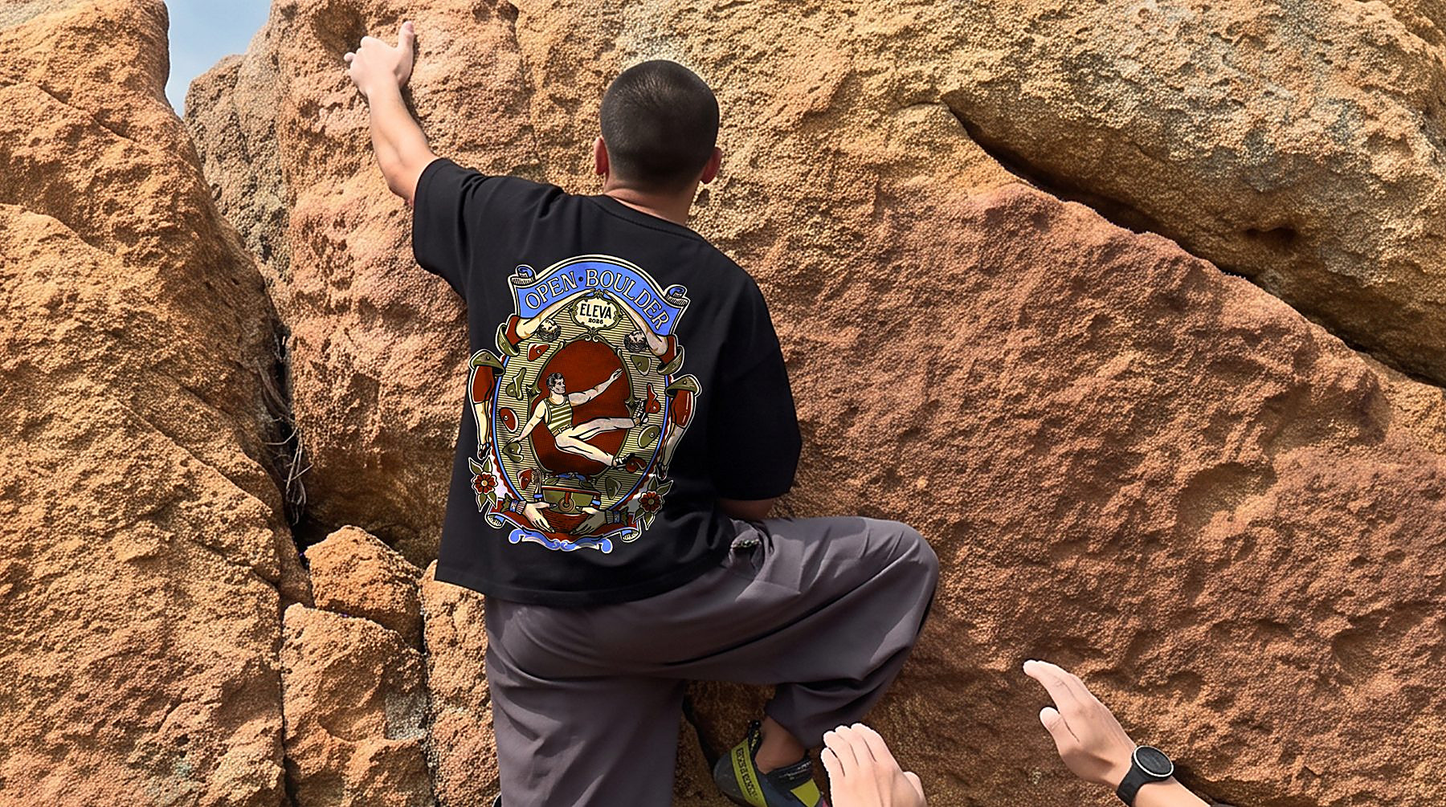
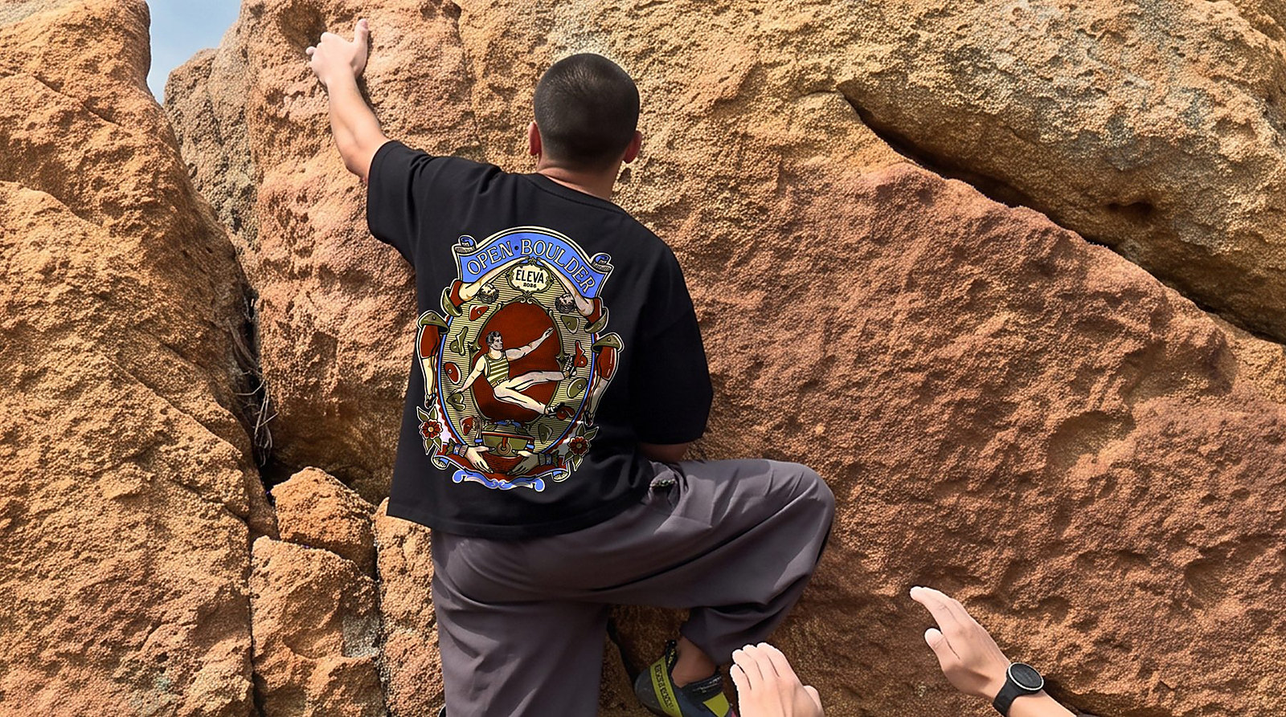
Retira a galeria Climb das Antigas e otimiza as imagens

diff --git a/index.html b/index.html
@@ -200,12 +200,6 @@
     .done code{font:700 15px var(--mono);background:var(--paper2);border:1.5px dashed var(--ink);border-radius:8px;padding:4px 8px}
     .lot .promo{align-self:flex-start;margin-top:8px;font:700 10px var(--mono);letter-spacing:.1em;text-transform:uppercase;color:var(--gold)}
 
-    /* galeria */
-    .gallery{columns:3;column-gap:14px}
-    .gallery figure{margin:0 0 14px;break-inside:avoid;border-radius:var(--r);overflow:hidden;border:2px solid var(--ink);cursor:zoom-in;position:relative}
-    .gallery img{width:100%;transition:transform .5s}
-    .gallery figure:hover img{transform:scale(1.04)}
-    .gallery figcaption{position:absolute;left:10px;bottom:10px;background:var(--cream);border:1.5px solid var(--ink);border-radius:999px;padding:3px 10px;font:700 10px var(--mono);letter-spacing:.08em;text-transform:uppercase}
 
     /* patrocinadores */
     .sponsors{display:grid;grid-template-columns:repeat(5,1fr);gap:12px}
@@ -328,7 +322,6 @@
       .about,.schedule,.local,.faq,.ticket-info,.shirt{grid-template-columns:1fr;gap:34px}
       .schedule-art{position:static}
       .schedule-art img{max-width:200px}
-      .gallery{columns:2}
       .footer-grid{grid-template-columns:1fr}
     }
     @media (max-width:600px){
@@ -353,7 +346,6 @@
       .fgrid,.kit-fields{grid-template-columns:1fr}
       .choices{grid-template-columns:1fr}
       .choices.two{grid-template-columns:1fr 1fr}
-      .gallery{columns:1}
       .mobile-cta{display:flex;position:fixed;left:0;right:0;bottom:0;z-index:45;gap:10px;padding:10px 16px calc(10px + env(safe-area-inset-bottom));background:rgba(15,15,15,.96);border-top:1px solid var(--line-d);transform:translateY(110%);transition:transform .3s}
       .mobile-cta.show{transform:none}
       .mobile-cta .btn{flex:1;padding:12px;box-shadow:none;border-color:var(--gold)}
@@ -520,7 +512,7 @@
         <p>Arte exclusiva do Estúdio Avoada para os 8 anos de Eleva. Só na cor preta, em edição limitada.</p>
       </div>
       <div class="shirt reveal">
-        <div class="shirt-img" data-zoom="assets/camiseta-rocha.jpg"><img src="assets/camiseta-rocha.jpg" alt="Camiseta oficial preta com o brasão Climb das Antigas nas costas" loading="lazy" width="1800" height="1005"></div>
+        <div class="shirt-img" data-zoom="assets/camiseta-rocha.jpg"><img src="assets/camiseta-rocha.jpg" alt="Camiseta oficial preta com o brasão Climb das Antigas nas costas" loading="lazy" width="1600" height="893"></div>
         <form class="shirt-card" id="shirt-form" novalidate>
           <span class="tag hot">Mesmo valor em qualquer lote</span>
           <h3>Camiseta preta Climb das Antigas</h3>
@@ -538,17 +530,6 @@
           <button class="btn gold block" type="submit">Pedir camiseta</button>
         </form>
       </div>
-    </div>
-  </section>
-
-  <!-- GALERIA -->
-  <section id="galeria">
-    <div class="wrap">
-      <div class="section-head reveal">
-        <div><p class="kicker">Identidade 2026</p><h2>Climb das Antigas.</h2></div>
-        <p>Toda a arte do Open 2026, criada pelo Estúdio Avoada. Toque numa imagem para ampliar.</p>
-      </div>
-      <div class="gallery reveal" id="gallery"></div>
     </div>
   </section>
 
@@ -772,10 +753,6 @@ const CONFIG = {
     { n:'07', grupo:'Acessível', nome:'Paraclimb', desc:'Para quem tem alguma deficiência física.', holds:[] },
   ],
   naipes: ['Masculino','Feminino'], // todas as categorias têm as duas divisões
-  galeria: [
-    ['assets/poster.jpg','Pôster'],['assets/brasao.jpg','Brasão'],['assets/camiseta-rocha.jpg','Camiseta'],
-    ['assets/inscricoes.jpg','Inscrições abertas'],['assets/brasao-dourado.jpg','Brasão dourado'],
-  ],
 };
 
 /* ===================================================================== */
@@ -900,9 +877,7 @@ $('#cat-grid').innerHTML = CONFIG.categorias.map(c=>`
 $('#naipe').innerHTML = '<option value="">Selecione</option>' + CONFIG.naipes.map(n=>`<option>${n}</option>`).join('');
 $('#categoria').innerHTML = '<option value="">Selecione</option>' + CONFIG.categorias.map(c=>`<option>${c.nome}</option>`).join('');
 
-/* galeria + lightbox */
-$('#gallery').innerHTML = CONFIG.galeria.map(([src,cap])=>`<figure data-zoom="${src}"><img src="${src}" alt="${esc(cap)}" loading="lazy"><figcaption>${esc(cap)}</figcaption></figure>`).join('');
-$('#gallery').addEventListener('click',e=>{const f=e.target.closest('[data-zoom]'); if(f) openLightbox(f.dataset.zoom, f.textContent.trim());});
+/* lightbox */
 function openLightbox(src,alt){ $('#lb-img').src=src; $('#lb-img').alt=alt||''; $('#lightbox').classList.add('open'); }
 function closeLightbox(){ $('#lightbox').classList.remove('open'); }
 $('#lightbox').addEventListener('click',e=>{ if(e.target.id!=='lb-img') closeLightbox(); });
